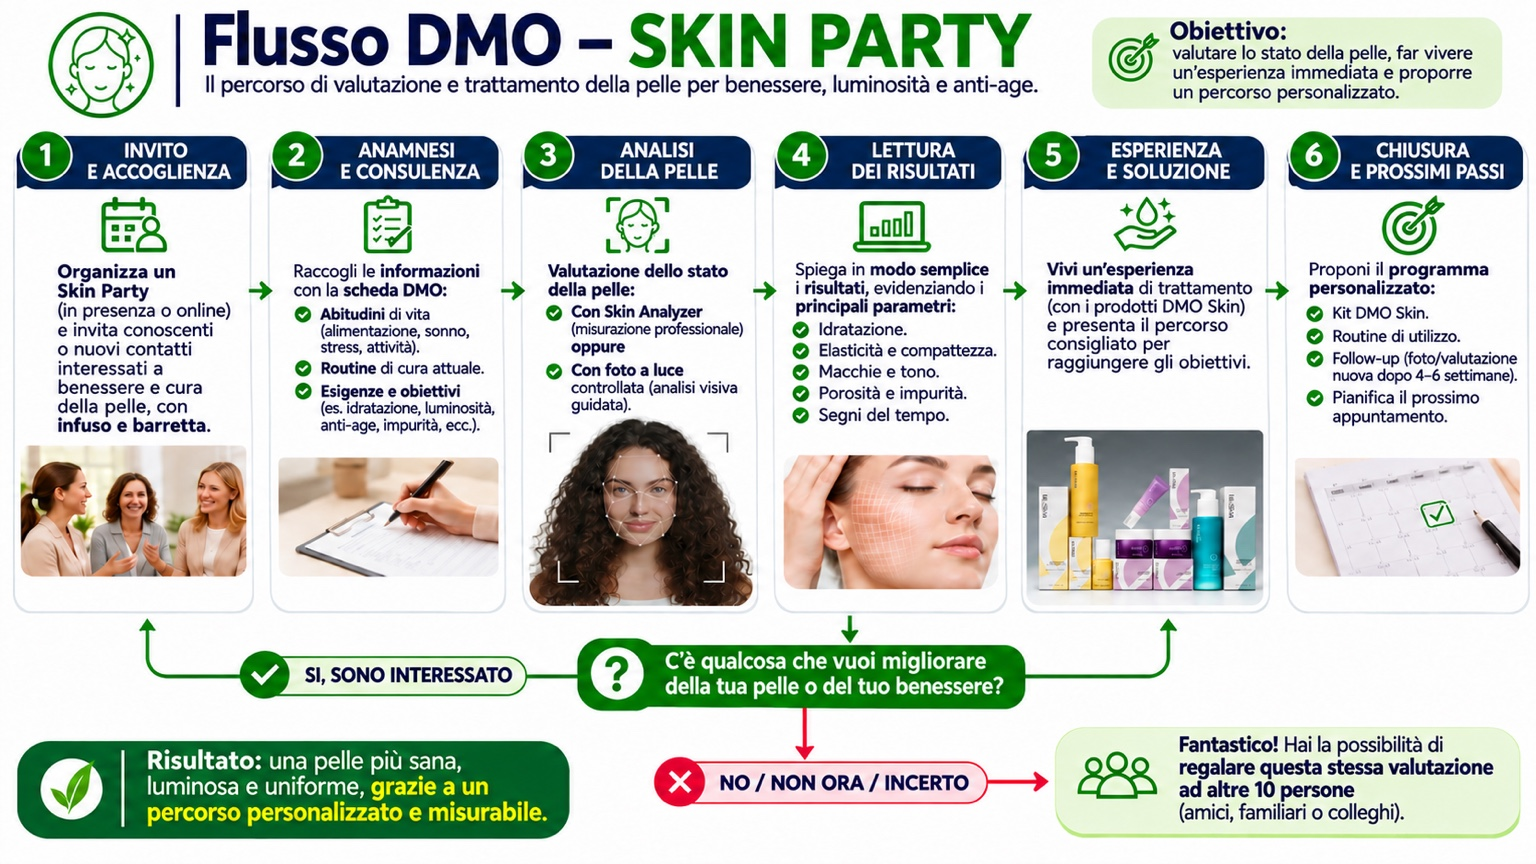
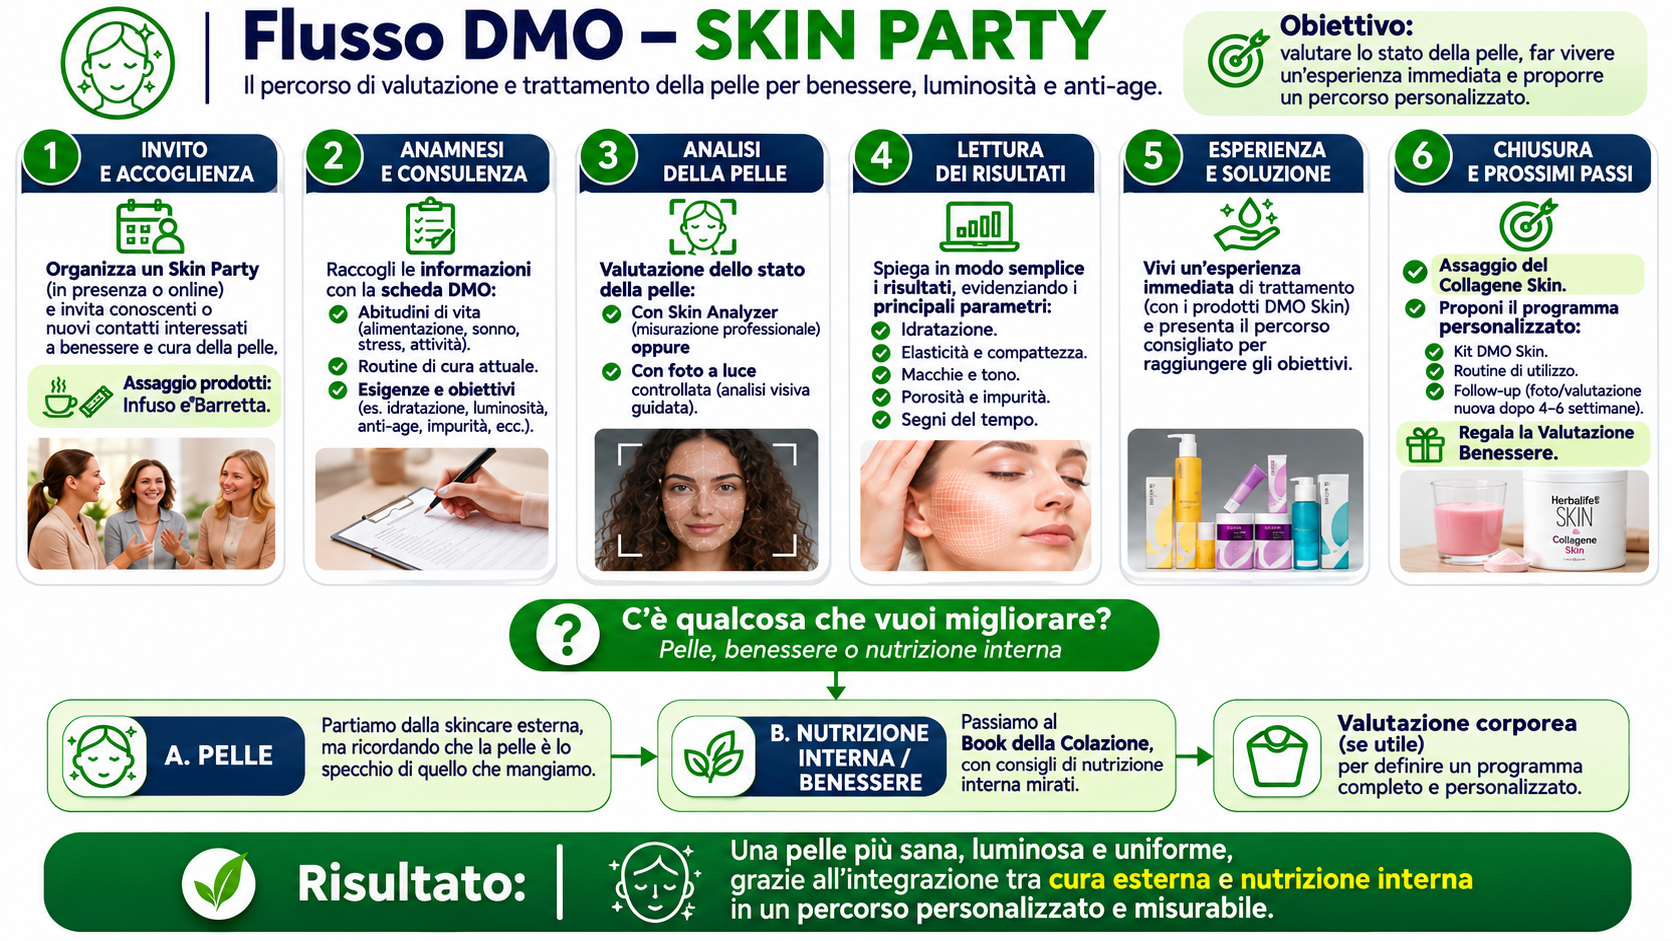
Replace Skin Party infographic with the updated supplied workflow

diff --git a/index.html b/index.html
@@ -247,7 +247,7 @@ window.SUPPORTO_DATA = {
     },
     {
       id:"skin", order:0.7, area:"Percorso guidato", title:"DMO Trattamento viso", type:"Video e materiali", status:"disponibile", library:false, shareSection:false,
-      workflowImage:{src:"assets/flusso-dmo-skin-party.webp?v=0129a2cd",alt:"Flusso DMO Skin Party: invito e accoglienza, anamnesi e consulenza, analisi della pelle, lettura dei risultati, esperienza e soluzione, chiusura e prossimi passi.",width:1536,height:864},
+      workflowImage:{src:"assets/flusso-dmo-skin-party.webp?v=8e26916a",alt:"Flusso DMO Skin Party: invito e accoglienza, anamnesi e consulenza, analisi della pelle, lettura dei risultati, esperienza e soluzione, chiusura e prossimi passi.",width:1672,height:941},
       description:"Skin Experience in quattro fasi, con i materiali operativi collegati.",
       learn:"Organizzare e svolgere la Skin Experience: invito, preparazione, esecuzione e prossimi passi.",
       action:"Guarda prima i consigli operativi del team, poi segui le quattro fasi nell’ordine indicato. La scheda di valutazione e la presentazione sono in preparazione.",

diff --git a/data.js b/data.js
@@ -58,7 +58,7 @@ window.SUPPORTO_DATA = {
     },
     {
       id:"skin", order:0.7, area:"Percorso guidato", title:"DMO Trattamento viso", type:"Video e materiali", status:"disponibile", library:false, shareSection:false,
-      workflowImage:{src:"assets/flusso-dmo-skin-party.webp?v=0129a2cd",alt:"Flusso DMO Skin Party: invito e accoglienza, anamnesi e consulenza, analisi della pelle, lettura dei risultati, esperienza e soluzione, chiusura e prossimi passi.",width:1536,height:864},
+      workflowImage:{src:"assets/flusso-dmo-skin-party.webp?v=8e26916a",alt:"Flusso DMO Skin Party: invito e accoglienza, anamnesi e consulenza, analisi della pelle, lettura dei risultati, esperienza e soluzione, chiusura e prossimi passi.",width:1672,height:941},
       description:"Skin Experience in quattro fasi, con i materiali operativi collegati.",
       learn:"Organizzare e svolgere la Skin Experience: invito, preparazione, esecuzione e prossimi passi.",
       action:"Guarda prima i consigli operativi del team, poi segui le quattro fasi nell’ordine indicato. La scheda di valutazione e la presentazione sono in preparazione.",
